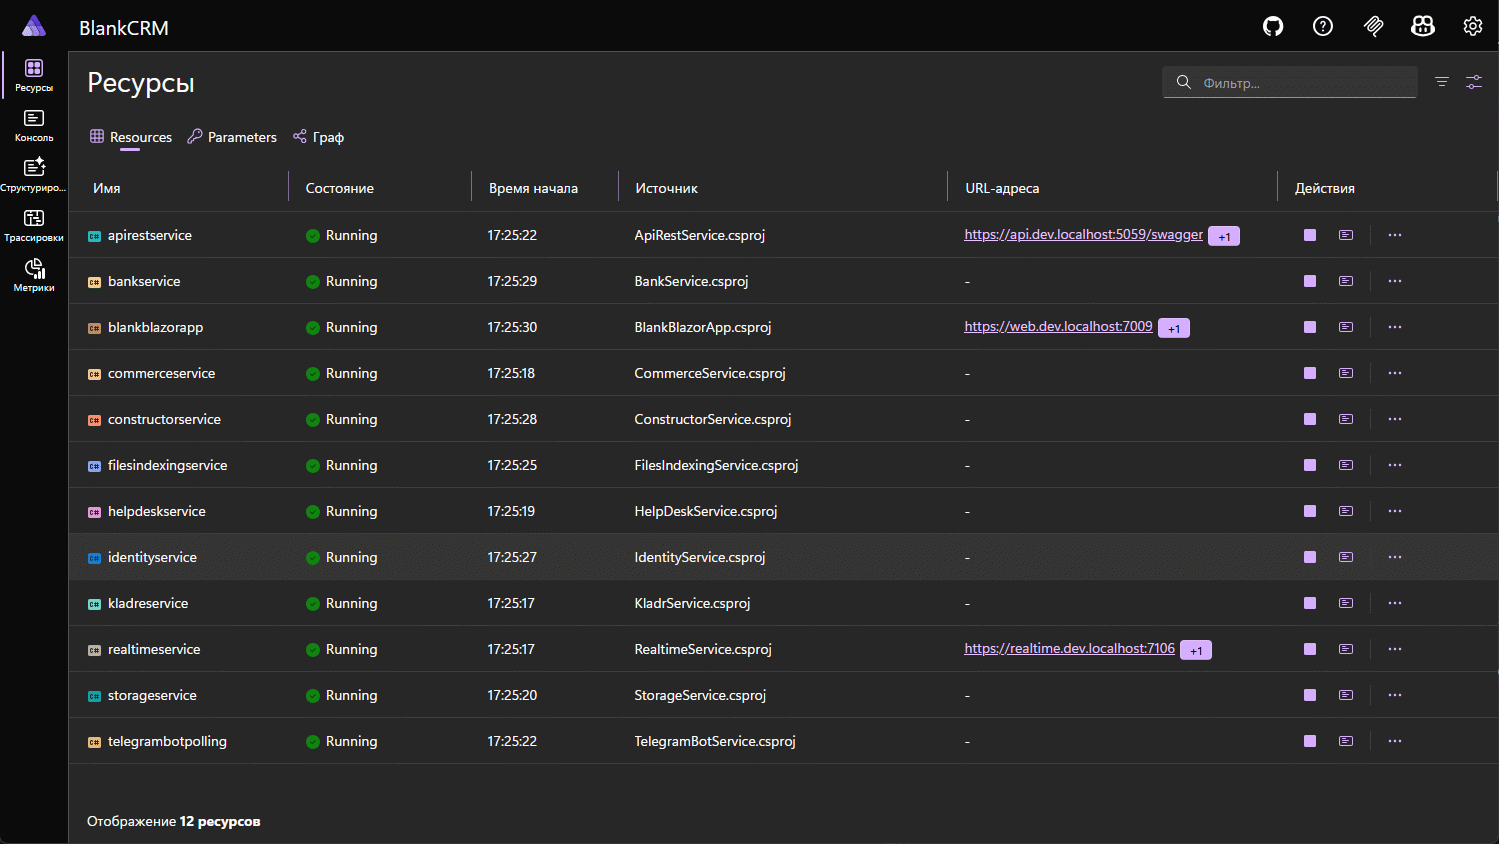
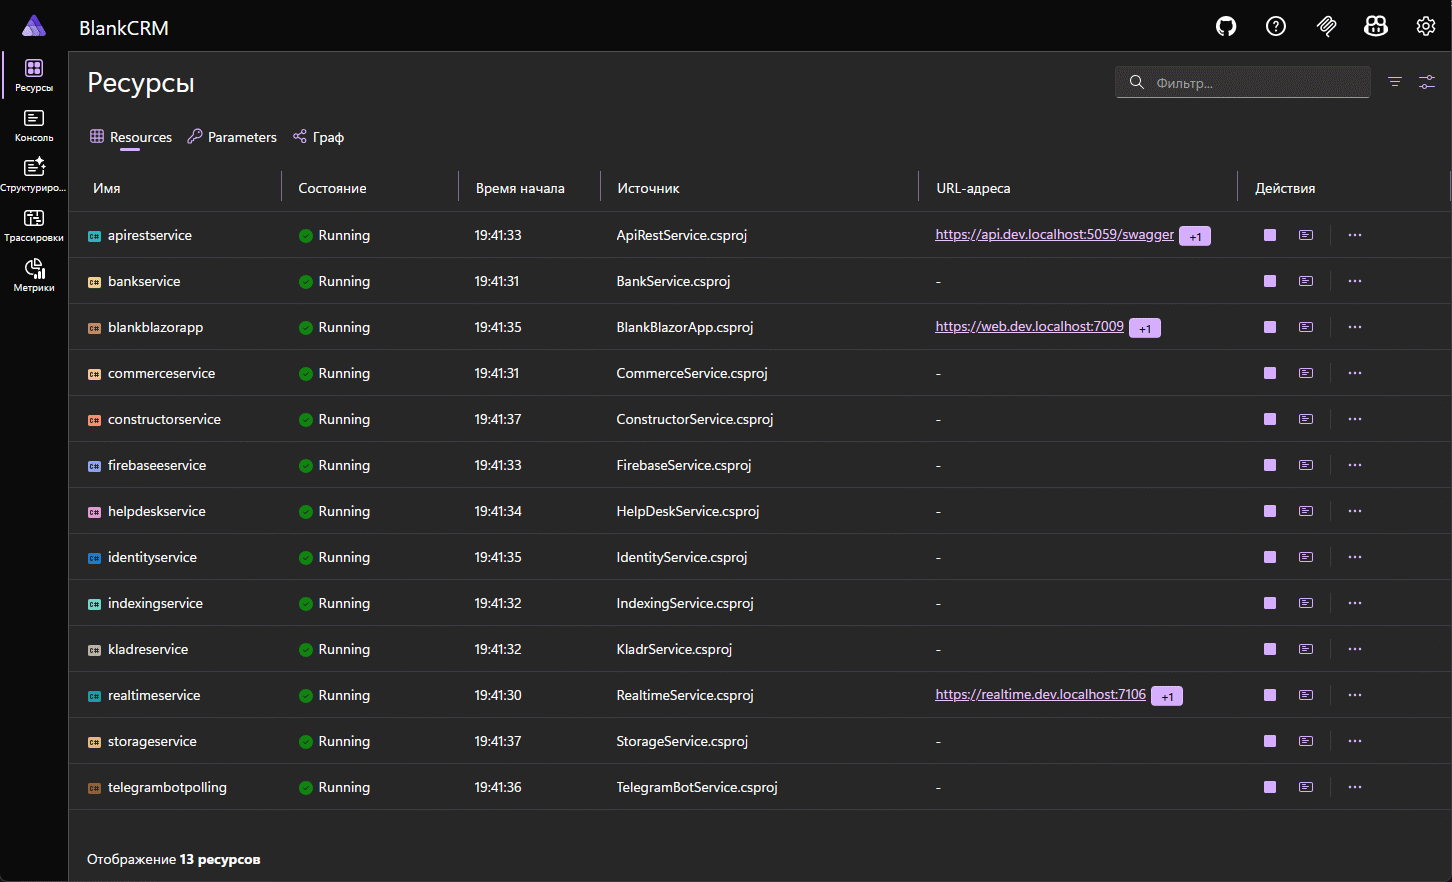
~

diff --git a/micro-services/FirebaseService/Program.cs b/micro-services/FirebaseService/Program.cs
@@ -1,16 +1,18 @@
+using DbcLib;
+using FirebaseAdmin;
+using Google.Apis.Auth.OAuth2;
 using Microsoft.EntityFrameworkCore;
 using Microsoft.Extensions.Options;
-using System.Diagnostics.Metrics;
+using Newtonsoft.Json;
+using NLog;
 using NLog.Extensions.Logging;
+using OpenTelemetry;
 using OpenTelemetry.Metrics;
 using OpenTelemetry.Trace;
-using Newtonsoft.Json;
 using RemoteCallLib;
-using OpenTelemetry;
-using System.Text;
 using SharedLib;
-using DbcLib;
-using NLog;
+using System.Diagnostics.Metrics;
+using System.Text;
 
 namespace FirebaseService;
 
@@ -88,6 +90,12 @@ public class Program
         builder.Configuration.AddEnvironmentVariables();
         builder.Configuration.AddCommandLine(args);
         builder.Services.AddOptions();
+
+        FirebaseApp.Create(new AppOptions()
+        {
+            Credential = GoogleCredential.GetApplicationDefault(),
+            ProjectId = "evident-ethos-230204",
+        });
 
         ITraceRabbitActionsService.TracesFilter = builder.Configuration.GetSection(nameof(ITraceRabbitActionsService.TracesFilter)).Get<string[]>();
         _confMQTT.Reload(builder.Configuration.GetSection(RealtimeMQTTClientConfigModel.Configuration).Get<RealtimeMQTTClientConfigModel>()!);

diff --git a/BlankCRM.AppHost/Program.cs b/BlankCRM.AppHost/Program.cs
@@ -187,6 +187,7 @@ public class Program
         IResourceBuilder<ProjectResource> firebaseService = builder.AddProject<Projects.FirebaseService>("firebaseeservice")
             .WithEnvironment(act => rabbitConfig.ForEach(x => act.EnvironmentVariables.Add(x.Key, x.Value ?? "")))
             .WithEnvironment(act => mongoConfig.ForEach(x => act.EnvironmentVariables.Add(x.Key, x.Value ?? "")))
+            .WithEnvironment("GOOGLE_APPLICATION_CREDENTIALS", Environment.GetEnvironmentVariable("FIREBASE_ADMIN_SDK_EVIDENT_ETHOS"))
             .WithReference(builder.AddConnectionString($"FirebaseConnection{_modePrefix}"))
 
             .WithReference(realtimeService)

diff --git a/README.md b/README.md
@@ -6,7 +6,7 @@
 - Подсистема электронной коммерции: на базе СЭД функционирует простой учёт заказов в т.ч. остатки на складах и предоставление услуг с настраиваемым графиком/расписанием
 - WEB-Конструктор схем данных (формы, документы)
 - Интерфейс rest API (swagger) для внешних информационных систем (пример: план обмена для [commerce](https://github.com/badhitman/BlankCRM/blob/main/micro-services/CommerceService/INTEGRATION.md))
-- ui пакеты: [MudBlazor 8](https://github.com/MudBlazor/MudBlazor/) и два WYSIWYG: [CKEditor](https://ckeditor.com/) + [TinyMCE](https://www.tiny.cloud). Важно: **CKEditor** не поддерживает вставку картинок, а **TinyMCE** имеет такую поддержу
+- ui пакеты: [MudBlazor 9](https://github.com/MudBlazor/MudBlazor/) и два WYSIWYG: [CKEditor](https://ckeditor.com/) + [TinyMCE](https://www.tiny.cloud). Важно: **CKEditor** не поддерживает вставку картинок, а **TinyMCE** имеет такую поддержу
 - Кроссплатформенный .NET MAUI (Win, Android и т.д.) [клиент доступа к Rest/Api](https://github.com/badhitman/BlankCRM?tab=readme-ov-file#tools-maui-app)
 - Связь между службами через RabbitMQ[^1] ↔ MQTT в режиме `запрос-ответ`: при отправке сообщения в очередь (через RabbitMQ), отправитель, в случае необходимости, получает ответ (в границах таймаута) и возвращает результат вызывающему (через MQTT). При использовании вызова такой команды удалённого сервиса проходит так, как если бы это был обычный `await` запрос к базе данных или rest/api. Вместе с тем есть возможность отправить команду в режиме "отправил и забыл"
 - .NET Aspire: [набор инструментов для оркестрации](https://github.com/badhitman/BlankCRM/tree/main/BlankCRM.AppHost): мониторинг сервисов (телеметрия, трассировка). ![aspire main](img/aspire-main.png)
